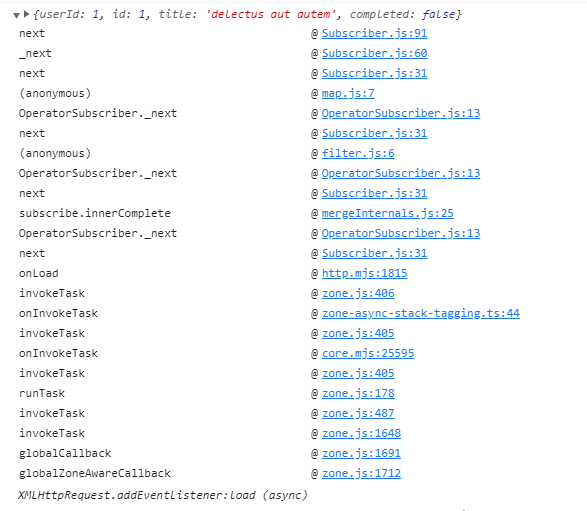
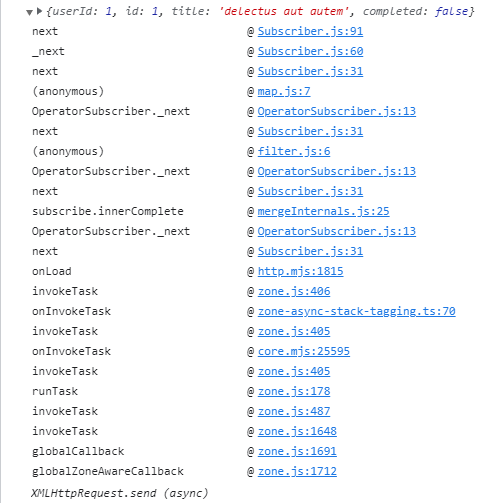
add xhr sample

diff --git a/src/zone-async-stack-tagging.ts b/src/zone-async-stack-tagging.ts
@@ -11,6 +11,7 @@ interface Task {
 
 class AsyncStackTaggingZoneSpec implements ZoneSpec {
   runZone = Zone.current;
+  xhrStacks: Task[] = [];
 
   constructor(namePrefix: string) {
     this.name = 'asyncStackTagging for ' + namePrefix;
@@ -26,9 +27,15 @@ class AsyncStackTaggingZoneSpec implements ZoneSpec {
     target: Zone,
     task: Task
   ): Task {
+    if (task.source === 'XMLHttpRequest.addEventListener:load') {
+      return delegate.scheduleTask(target, task);
+    }
     task.id =
       console.scheduleAsyncTask &&
       console.scheduleAsyncTask(task.source || task.type);
+    if (task.source === 'XMLHttpRequest.send') {
+      this.xhrStacks.push(task);
+    }
     return delegate.scheduleTask(target, task);
   }
 
@@ -40,14 +47,36 @@ class AsyncStackTaggingZoneSpec implements ZoneSpec {
     applyThis: any,
     applyArgs?: any[]
   ) {
-    task.id && console.startAsyncTask && console.startAsyncTask(task.id);
+    let asyncTaggingTask = task;
+    if (task.source === 'XMLHttpRequest.send') {
+      return delegate.invokeTask(targetZone, task, applyThis, applyArgs);
+    }
+    if (task.source === 'XMLHttpRequest.addEventListener:load') {
+      const target = (task as any).target;
+      for (let i = 0; i < this.xhrStacks.length; i++) {
+        const xhrTask = this.xhrStacks[i];
+        const xhr = (xhrTask.data as any)?.target;
+        if (target === xhr) {
+          this.xhrStacks.splice(i, 1);
+          asyncTaggingTask = xhrTask;
+          break;
+        }
+      }
+    }
+    asyncTaggingTask.id &&
+      console.startAsyncTask &&
+      console.startAsyncTask(asyncTaggingTask.id);
+
     const r = delegate.invokeTask(targetZone, task, applyThis, applyArgs);
+
     if (
       task.type !== 'eventTask' &&
       task.type === 'macroTask' &&
       !task.data?.isPeriodic
     ) {
-      task.id && console.finishAsyncTask && console.finishAsyncTask(task.id);
+      asyncTaggingTask.id &&
+        console.finishAsyncTask &&
+        console.finishAsyncTask(asyncTaggingTask.id);
     }
     return r;
   }

diff --git a/README.md b/README.md
@@ -14,6 +14,10 @@ the `async stack tagging` console trace looks like this.
 
 ![click](./screenshots/click.png)
 
+- http
+
+![http](./screenshots/xhr.png)
+
 - Nested async call
 
 ![http](./screenshots/nested.png)
